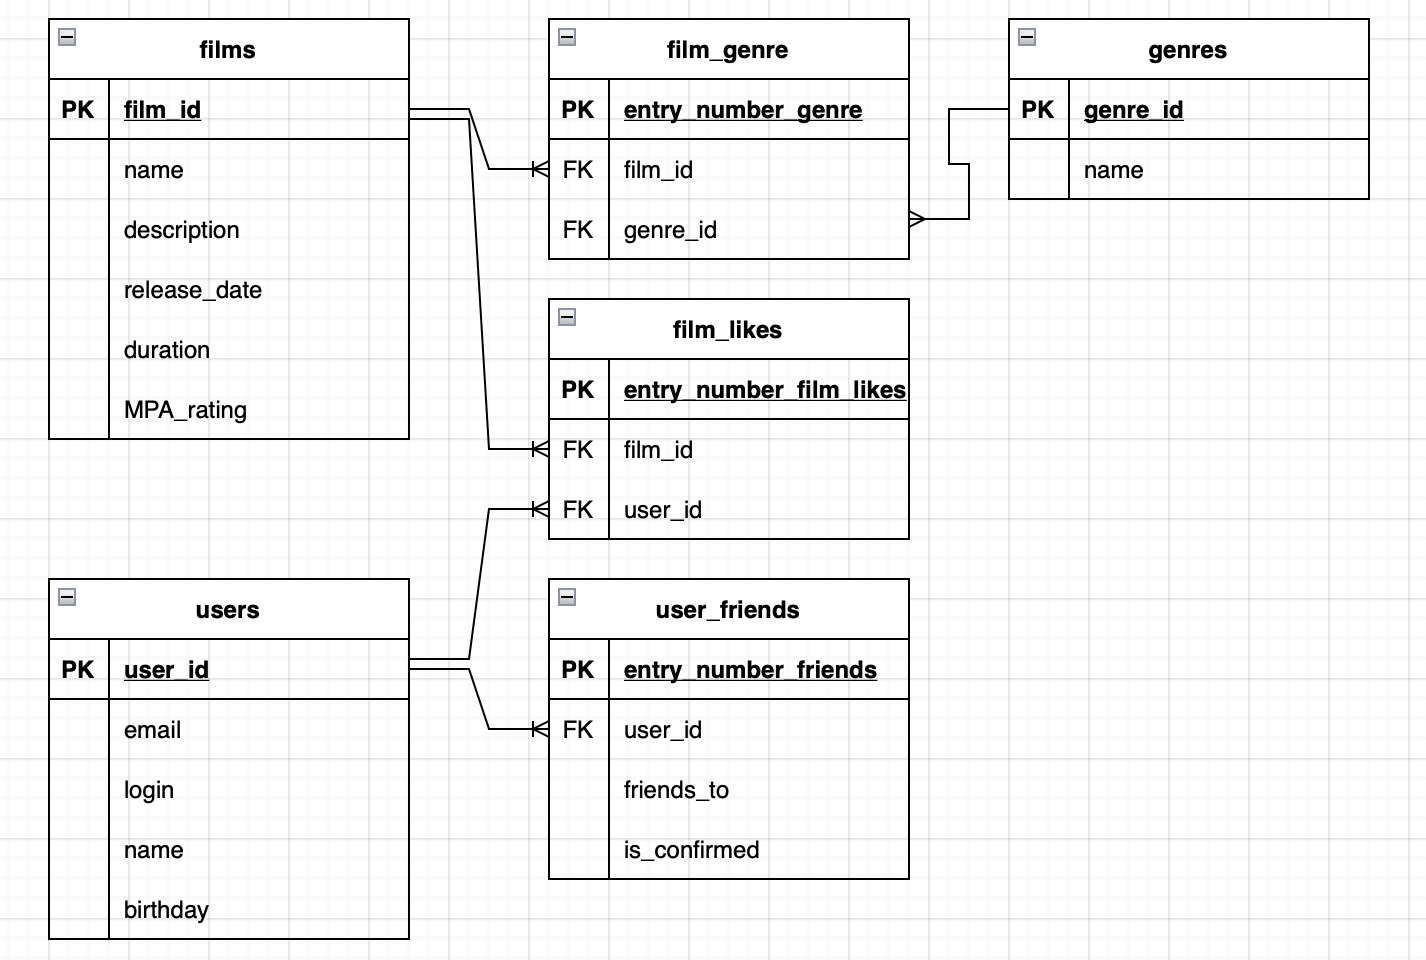
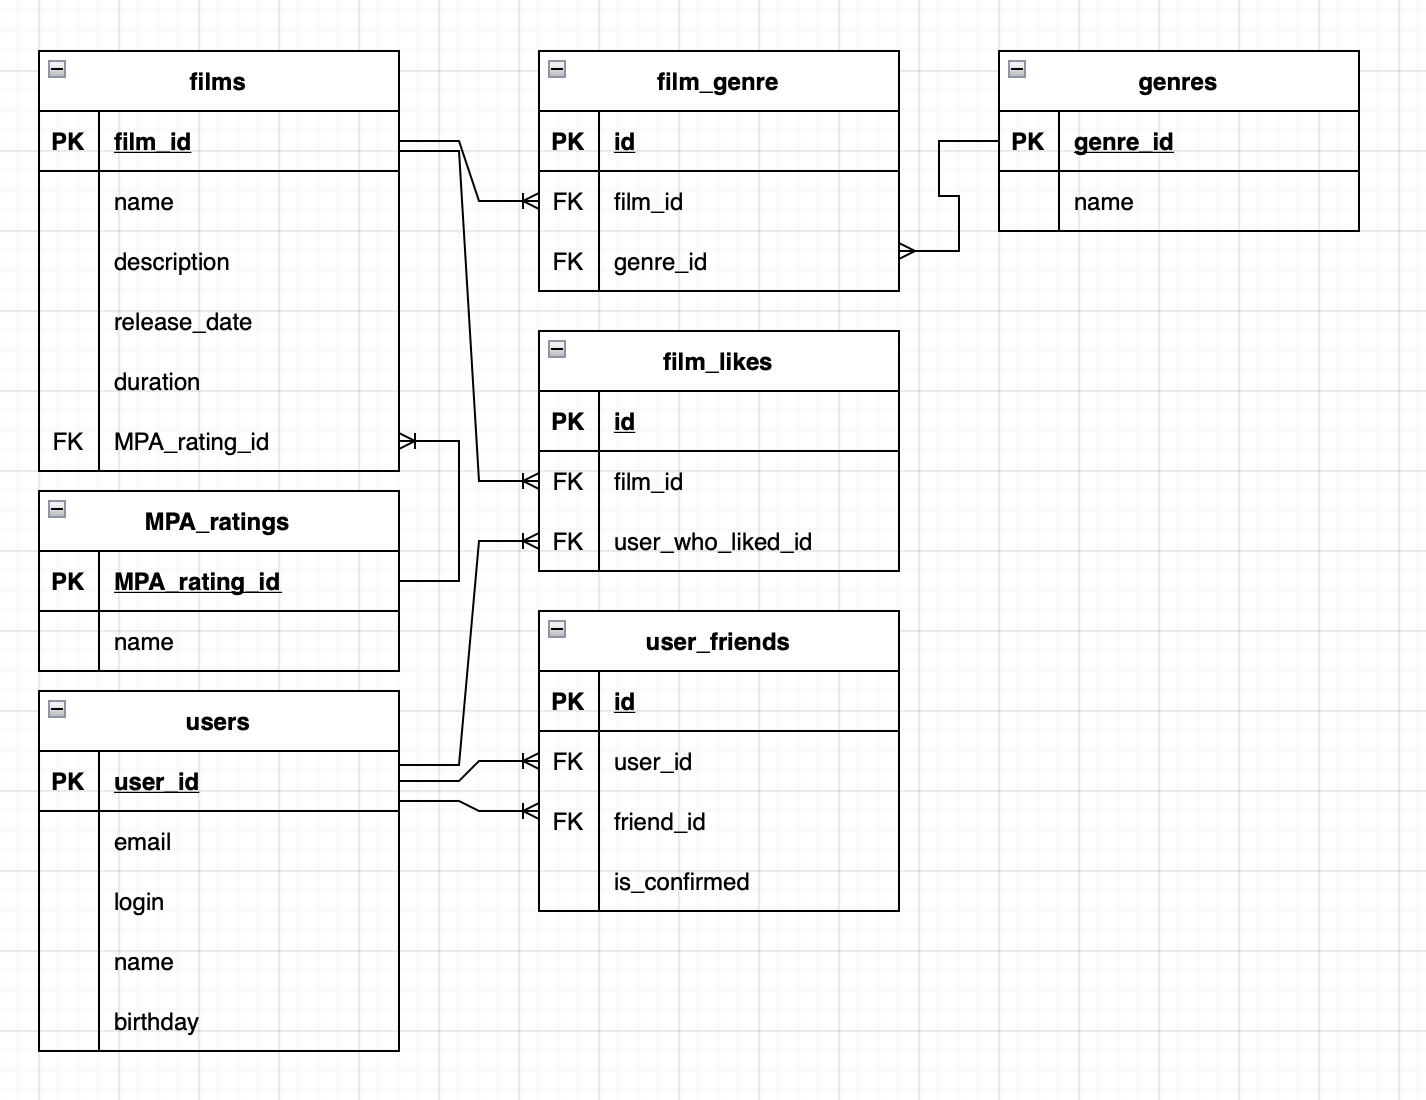
docs: added ER-diagram to README.md

diff --git a/README.md b/README.md
@@ -11,16 +11,16 @@ FROM users
 ```
 **Get user's friends' id's by userId:**
 ```
-SELECT friends_to
+SELECT friend_id
 FROM user_friends
 WHERE user_friends.user_id = userId
 ```
 **Get common friends' id's for users with id1 and id2:**
 ```
-SELECT friends_to
+SELECT friend_id
 FROM user_friends
 WHERE user_id = id1
-  AND user_friends.friends_to IN (SELECT friends_to
+  AND user_friends.friend_id IN (SELECT friend_id
                                   FROM user_friends
                                   WHERE user_id = id2) AS id2friends
 ```
